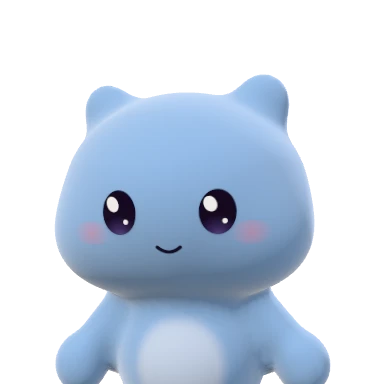
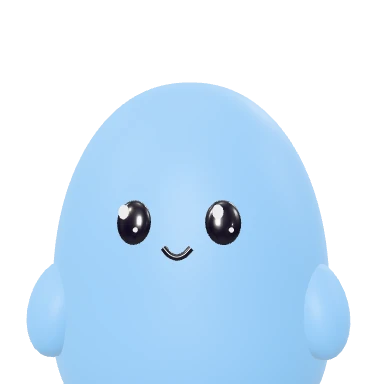
Fallback pictures and the mascot test for the blobs
The three no-WebGL pictures are the default blob now. The mascot test
reads gesture lengths from companion3d's DUR and draws the fallbacks
from the new look format.

diff --git a/still-ui/src/companion3d.ts b/still-ui/src/companion3d.ts
@@ -370,7 +370,7 @@ function loop(state: string, t: number, mood: string, prop: string): Pose {
  return p
 }
 
-const DUR: Record<string, number> = { wave: 2.2, wake: 2.3, drop: 1.6, pitch: 1.9, hired: 1.3, pop: .8, happy: 1.15, admire: 1.3, done: 1.4 }
+export const DUR: Record<string, number> = { wave: 2.2, wake: 2.3, drop: 1.6, pitch: 1.9, hired: 1.3, pop: .8, happy: 1.15, admire: 1.3, done: 1.4 }
 /// A gesture at time g since it began. Gestures start and end on the state's loop, blended.
 function gesture(name: string, g: number, base: Pose, mood: string, prop: string): Pose {
  const p = { ...base }, e = ENERGY[mood] ?? 1, left = HOLD[prop] === "hand" // a nub that's holding something doesn't wave

diff --git a/tests/desktop/mascots.py b/tests/desktop/mascots.py
@@ -85,7 +85,6 @@ def gallery(theme):
 REEL = [("idle", "idle", ""), ("happy", "idle", "happy"), ("thinking", "thinking", ""), ("working", "working", ""), ("pointing", "pointing", ""),
         ("needs-you", "needs", ""), ("done", "done", ""), ("sad", "error", ""), ("talking", "talking", ""), ("wave", "idle", "wave"),
         ("admire", "idle", "admire"), ("pop", "idle", "pop")]
-CLIPS = {"idle": "idle", "thinking": "think", "working": "work", "pointing": "point", "needs": "needs", "done": "done", "error": "sad", "talking": "talk"}
 
 
 def gifs():
@@ -98,14 +97,14 @@ def gifs():
         js(process, "document.documentElement.dataset.mascotFreeze = '0'; document.dispatchEvent(new CustomEvent('still-mascot-reel', { detail: { state: 'idle' } }))")
         until(lambda: js(process, "!!document.querySelector('.mascot-reel canvas[data-live]')"), 30)
         chunk = js(process, "performance.getEntriesByType('resource').map(e => e.name).find(n => n.includes('companion3d'))")
-        js(process, f"import({json.dumps(chunk)}).then(m => {{ const c = new m.Companion(); window.__clips = Object.fromEntries(Object.entries(c.actions).map(([k, a]) => [k, a.getClip().duration])); c.dispose() }})")
+        js(process, f"import({json.dumps(chunk)}).then(m => {{ window.__clips = m.DUR }})")
         clips = until(lambda: js(process, "window.__clips && JSON.stringify(window.__clips)"), 10)
         clips = json.loads(clips)
         made = 0
         for name, state, gesture in REEL:
             js(process, f"document.dispatchEvent(new CustomEvent('still-mascot-reel', {{ detail: {{ state: {json.dumps(state)}, gesture: {json.dumps(gesture)} }} }}))")
             until(lambda: js(process, "!!document.querySelector('.mascot-reel canvas[data-live]')"), 10)
-            seconds = clips.get(gesture or CLIPS[state], 2)
+            seconds = clips.get(gesture or state, 4)  # a gesture plays once; the loops are four seconds
             frames, out = [], profile / name
             out.mkdir()
             for i in range(int(seconds * 20)):
@@ -134,8 +133,7 @@ def fallbacks():
         js(process, "document.dispatchEvent(new CustomEvent('still-mascot-reel', { detail: { state: 'idle' } }))")
         until(lambda: js(process, "!!document.querySelector('.mascot-reel canvas[data-live]')"), 30)
         chunk = js(process, "performance.getEntriesByType('resource').map(e => e.name).find(n => n.includes('companion3d'))")
-        look = json.dumps({"color": "#8fb8e8", "shape": "round", "head": 1, "ears": 0, "eyes": "dot", "eyeGap": 0, "eyeY": 0, "eyeSize": 0, "pupil": 0, "brows": "none", "browGap": 0,
-                           "browY": 0, "browSize": 0, "browTilt": 0, "mouth": "smile", "mouthY": 0, "mouthSize": 0, "blush": True, "hair": "", "hairColor": "#6b4a35", "hat": ""})  # look.ts: DEFAULT_LOOK
+        look = json.dumps({"color": "#8cc3ee", "shape": "bean", "prop": "", "accessory": ""})  # look.ts: DEFAULT_LOOK
         js(process, f"import({json.dumps(chunk)}).then(m => window.__pics = {{ full: m.picture({look}, 'idle', 384, 'full'), bust: m.picture({look}, 'idle', 384, 'bust'), head: m.picture({look}, 'idle', 96, 'head') }})")
         until(lambda: js(process, "!!window.__pics"), 10)
         folder = ROOT / "still-ui" / "src" / "assets" / "companion"
